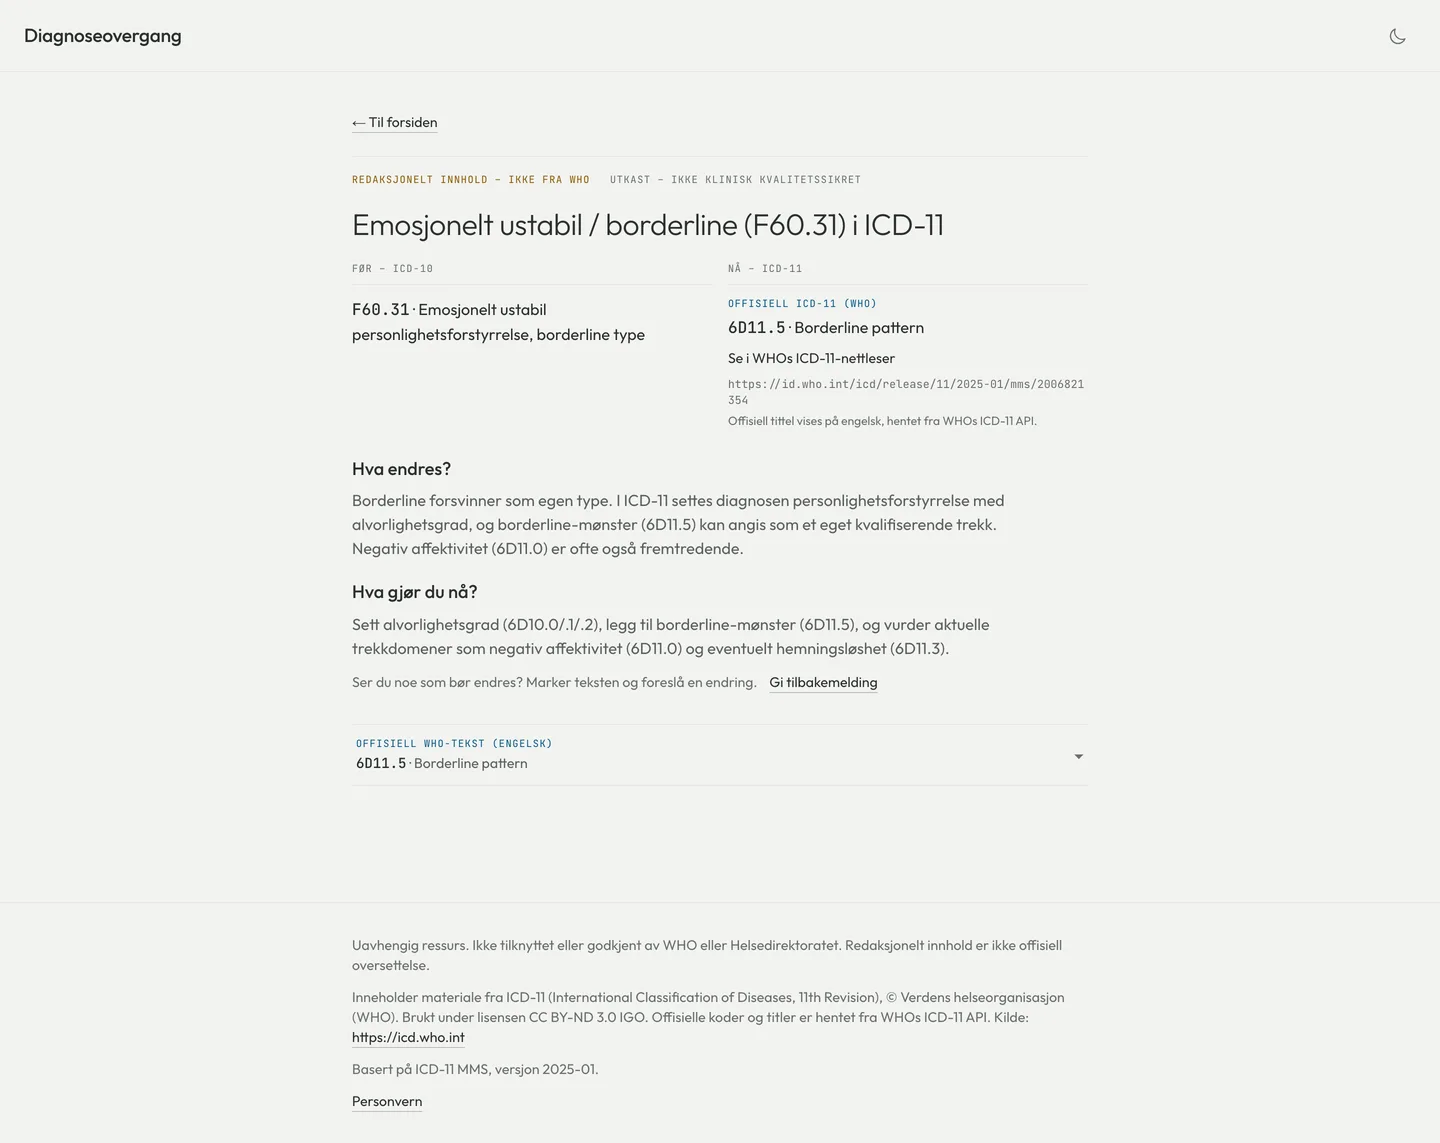
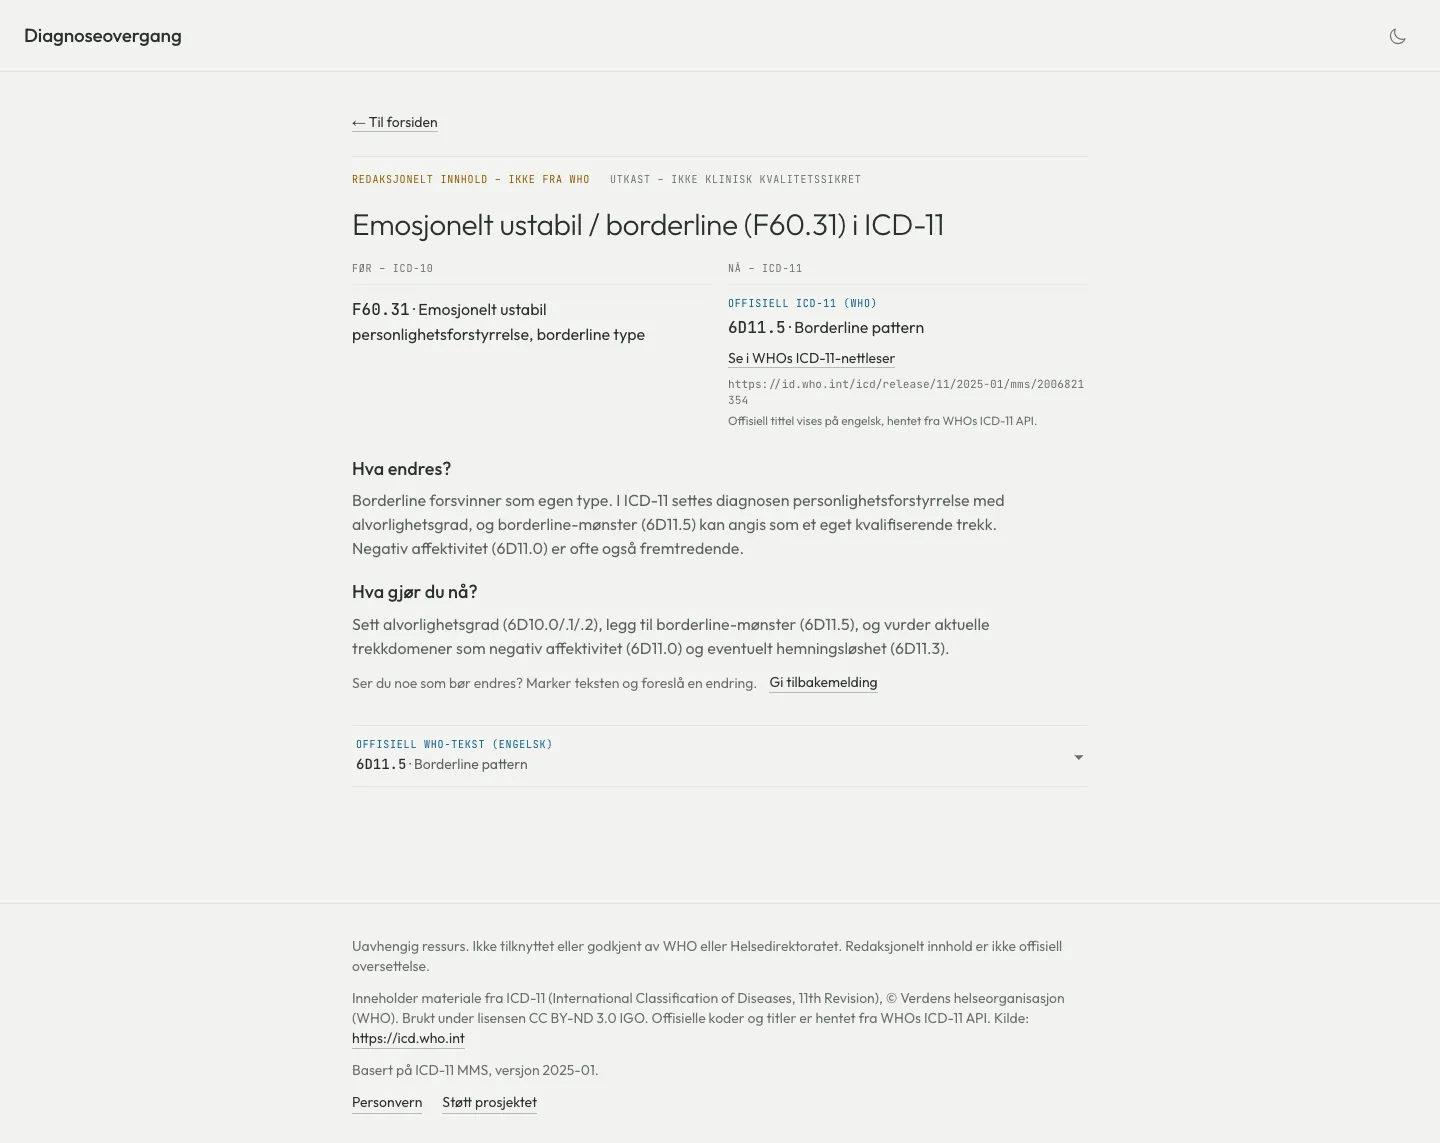
Blog: the Diagnoseovergang screenshot has a dark render (#66)
The post's one screenshot of diagnoseovergang.no was light only, so it sat
as a pale square on the dark theme. A new ThemedImage MDX component renders
a light and a dark file through MdxImage and swaps them with CSS on
data-theme, like the home portrait. No filter. The hidden one is
display: none, so screen readers hear the alt text once and the lazy image
is never fetched until its theme is on.

Both screenshots are retaken from the live site at 1440x1143, light and
dark (prefers-color-scheme). The site has changed since October (a linked
"Se i WHOs" line, a "Støtt prosjektet" footer link), so the light one is
retaken too and the pair matches. The "Les også" list added below the entry
since then is left out of both shots to keep the October framing.

diff --git a/app/styles/base.css b/app/styles/base.css
@@ -655,6 +655,22 @@ main:has(> .home-field) + .site-footer {
   margin-top: var(--space-3);
 }
 
+/* Themed image (app/components/ThemedImage.tsx): a light and a dark file, swapped on data-theme like the home
+   portrait. Never a filter. The hidden one is display: none, so it is out of the accessibility tree. */
+.themed-image,
+.themed-image-light {
+  display: block;
+}
+
+.themed-image-dark,
+[data-theme='dark'] .themed-image-light {
+  display: none;
+}
+
+[data-theme='dark'] .themed-image-dark {
+  display: block;
+}
+
 /* Layout width: narrow for reading, wide for home and portfolio pages. It switches, it does not animate.
    No explicit width: as a block box it fills the space left by its margins (mx-4). */
 .layout-narrow {

diff --git a/app/components/ThemedImage.tsx b/app/components/ThemedImage.tsx
@@ -1,0 +1,22 @@
+import MdxImage from './MdxImage'
+
+type ThemedImageProps = {
+  src: string
+  darkSrc: string
+  alt: string
+}
+
+// One image per theme, swapped by CSS on data-theme like the home portrait. The hidden one is display: none,
+// so screen readers hear the alt text once, and next/image's lazy loading never fetches it.
+export default function ThemedImage({ src, darkSrc, alt }: ThemedImageProps) {
+  return (
+    <span className="themed-image">
+      <span className="themed-image-light">
+        <MdxImage src={src} alt={alt} />
+      </span>
+      <span className="themed-image-dark">
+        <MdxImage src={darkSrc} alt={alt} />
+      </span>
+    </span>
+  )
+}

diff --git a/app/components/mdx-components.tsx b/app/components/mdx-components.tsx
@@ -1,6 +1,7 @@
 import type { ReactNode } from 'react'
 import Image from './Image'
 import MdxImage from './MdxImage'
+import ThemedImage from './ThemedImage'
 import { headingClass } from './mdx'
 
 // Blog post headings take the same kit classes as the other MDX pages, without anchor links.
@@ -15,6 +16,7 @@ function heading(level: 1 | 2 | 3 | 4) {
 
 export const mdxComponents = {
   Image,
+  ThemedImage,
   img: MdxImage,
   h1: heading(1),
   h2: heading(2),
